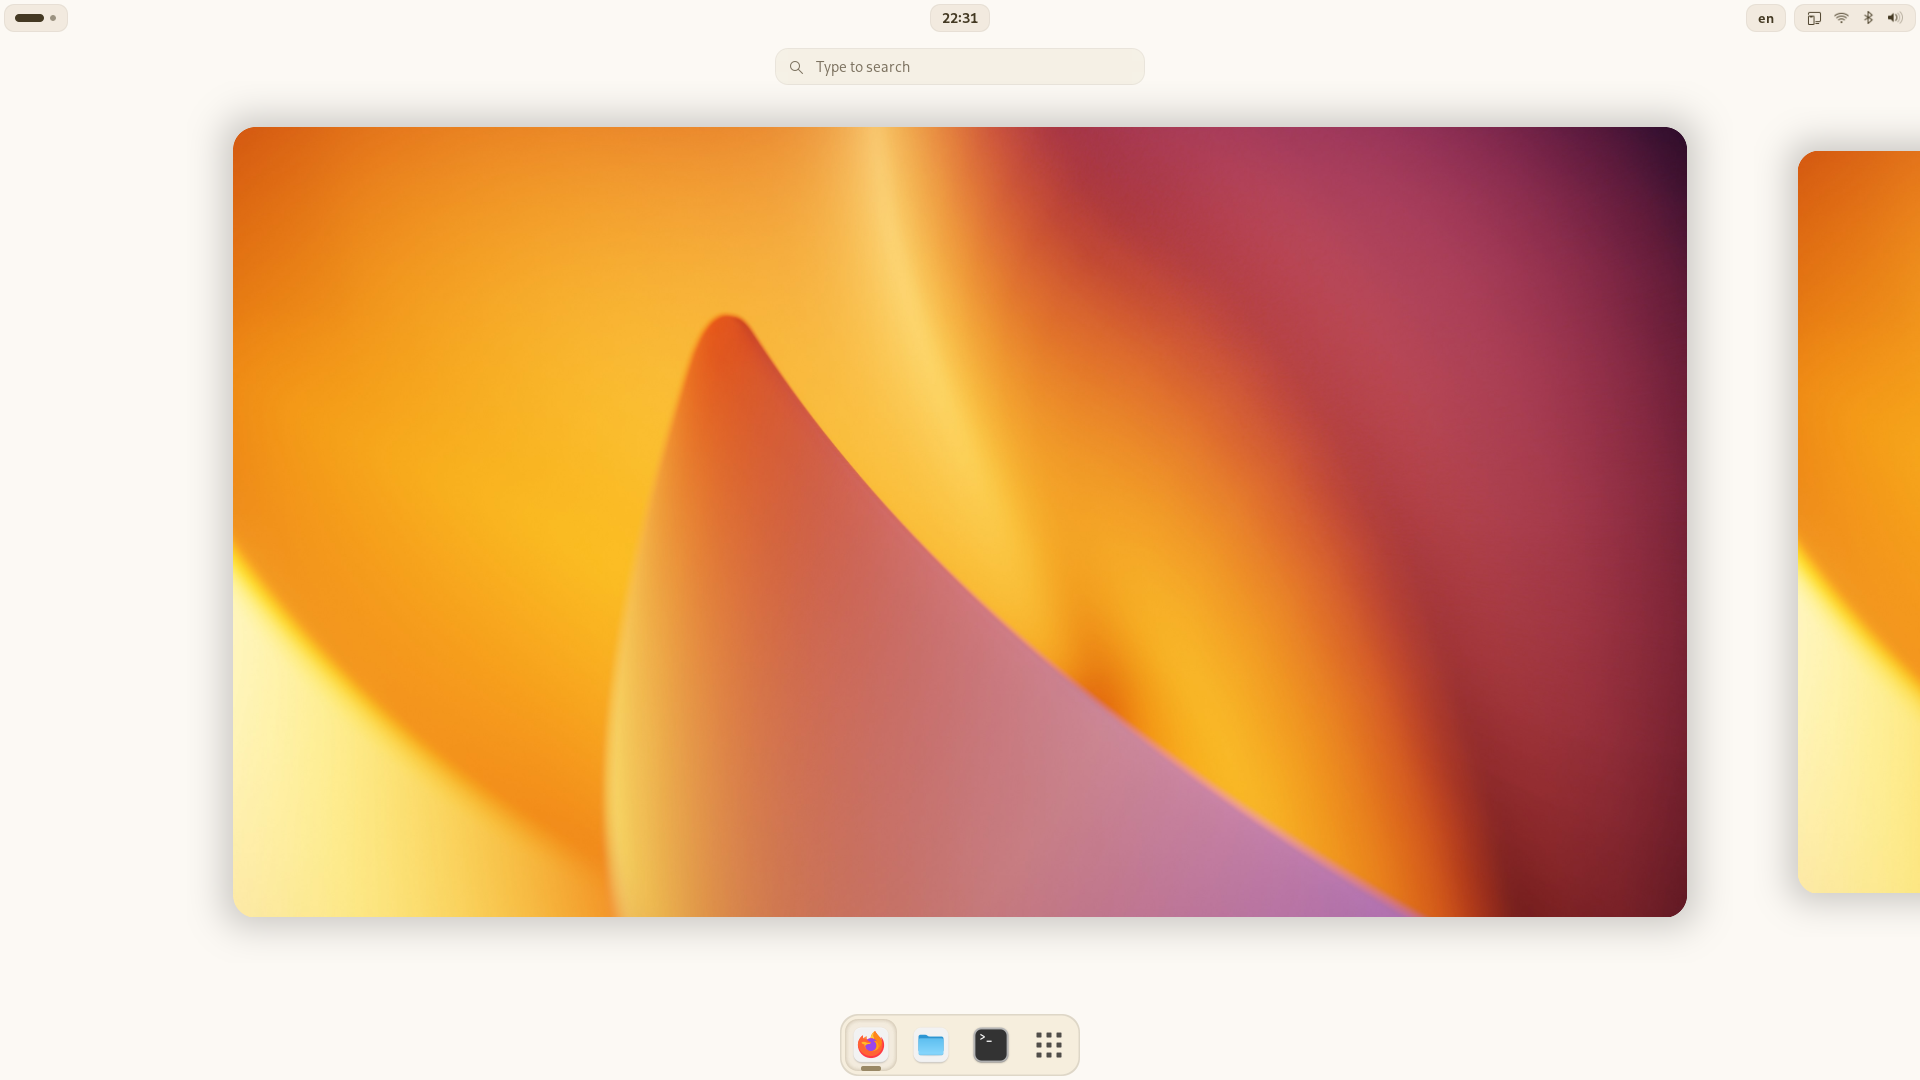
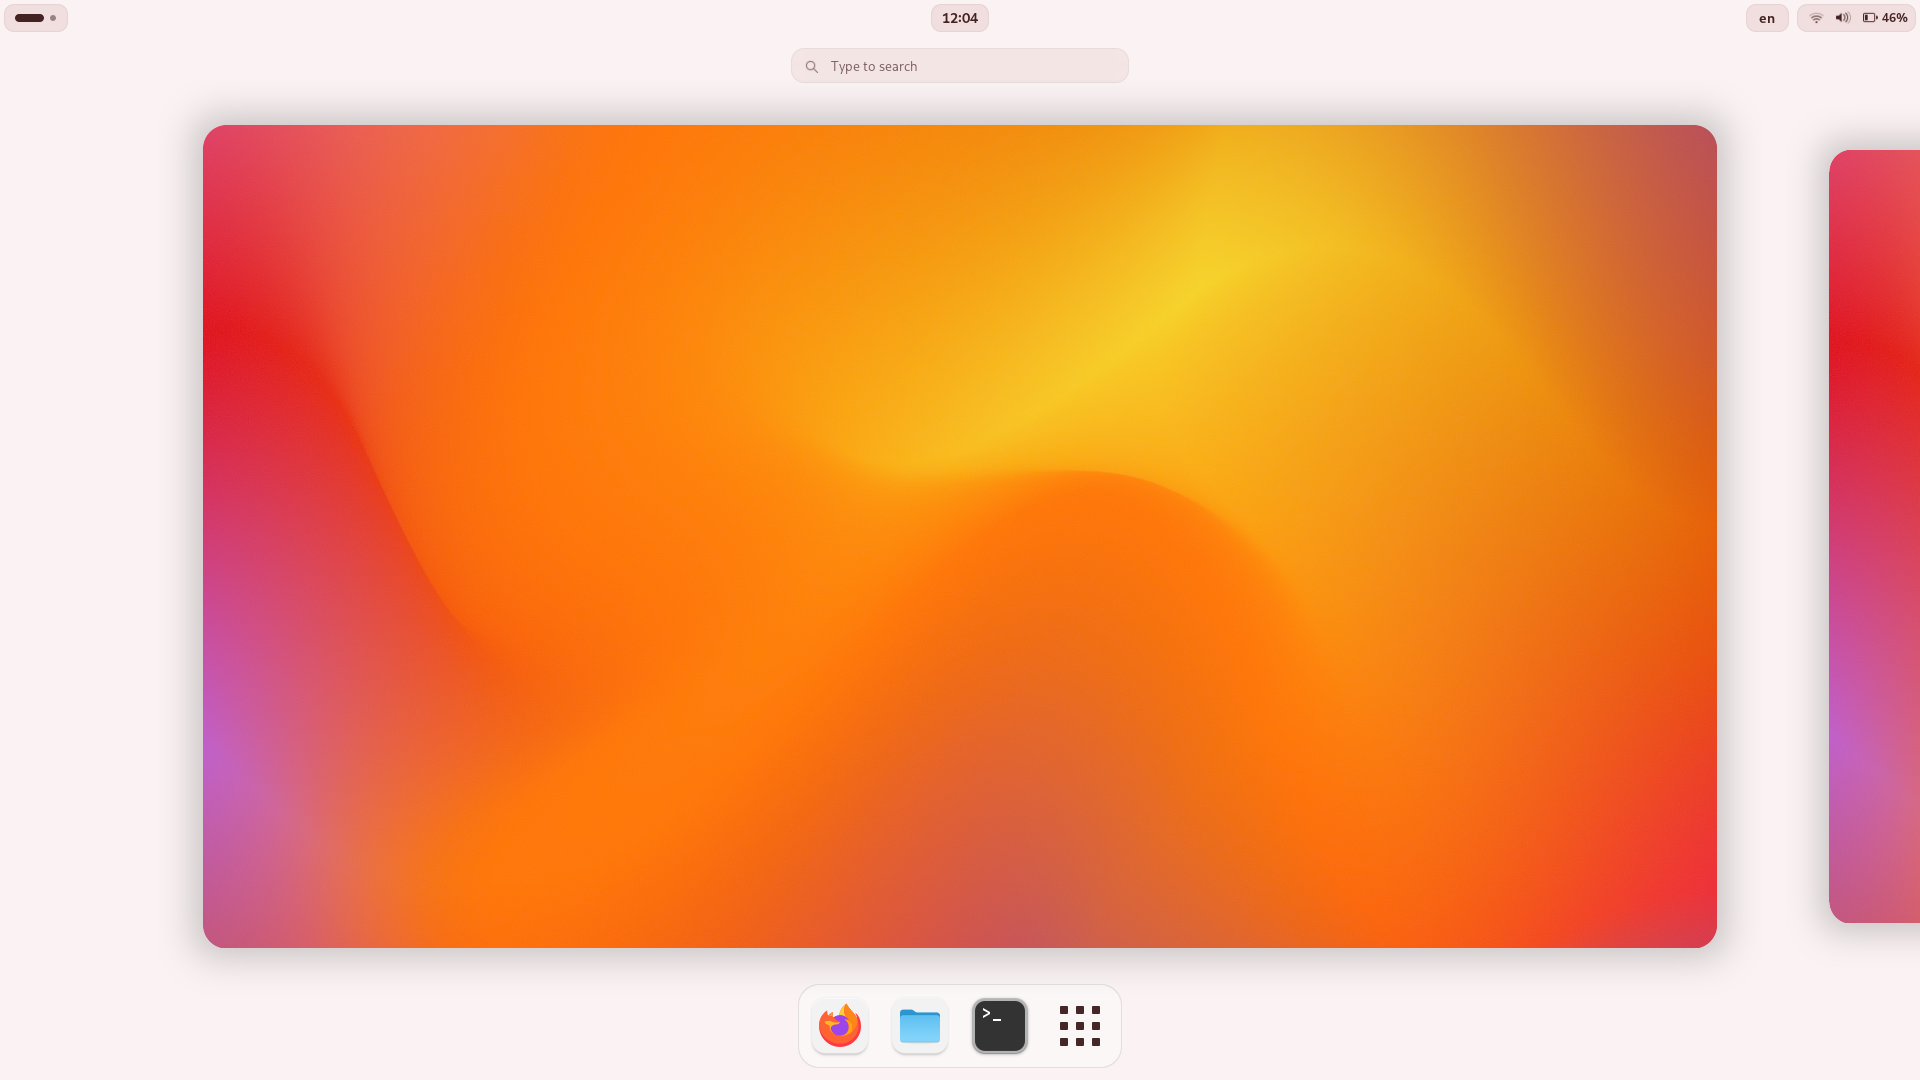
Update README.md

diff --git a/README.md b/README.md
@@ -15,7 +15,7 @@ Shell theme for GNOME DE. Based on https://www.pling.com/p/1939902/.
 <details><summary>Click me 🐈</summary>
 
 Icon theme: https://github.com/vinceliuice/Colloid-icon-theme
-#### Overview [[Blur My Shell](https://extensions.gnome.org/extension/3193/blur-my-shell/) / Light / Dark] (Fold [light](https://gitlab.gnome.org/GNOME/gnome-backgrounds/-/raw/gnome-45/backgrounds/fold-l.jpg?ref_type=heads) / [dark](https://gitlab.gnome.org/GNOME/gnome-backgrounds/-/raw/gnome-45/backgrounds/fold-d.jpg?ref_type=heads))
+#### Overview [[Blur My Shell](https://extensions.gnome.org/extension/3193/blur-my-shell/) / Light / Dark] ([Amber](https://gitlab.gnome.org/GNOME/gnome-backgrounds/-/tree/46.0/backgrounds?ref_type=tags))
 ![Overview with Blur My Shell](./readme-images/overview_blur-my-shell.png?raw=true "Overview with Blur My Shell")
 ![Overview in light mode](./readme-images/overview_light.png?raw=true "Overview in light mode")
 ![Overview in dark mode](./readme-images/overview_dark.png?raw=true "Overview in dark mode")
@@ -26,9 +26,9 @@ Icon theme: https://github.com/vinceliuice/Colloid-icon-theme
 ![Quick settings look](./readme-images/qs.png?raw=true "Quick settings look")
 
 #### Modal dialog ([Wide Angle Photography of Mountain](https://www.pexels.com/photo/wide-angle-photography-of-mountain-1612559/))
-![Modal dialog look](./readme-images/modal.png "Modal dialog look")
-#### Calendar & notifications ([Wallpaper](https://www.zedge.net/wallpaper/7e10d448-6440-405d-a847-30b6146eeb55))
-![Calendar & notifications look](./readme-images/notifications.png?raw=true)
+![Modal dialog look](./readme-images/modal.png?raw=true "Modal dialog look")
+#### Calendar & notifications ([Sand Dunes](https://4kwallpapers.com/nature/sand-dunes-desert-landscape-evening-windows-10x-microsoft-3287.html))
+![Calendar & notifications look](./readme-images/datemenu.jpg?raw=true)
 
 #### Dash ([Dash To Dock](https://extensions.gnome.org/extension/307/dash-to-dock/ "Dash To Dock"))
 - Position and size:
@@ -42,12 +42,15 @@ Icon theme: https://github.com/vinceliuice/Colloid-icon-theme
 </details>
 
 ## 🚧 Requirements
-- GNOME 43, 44, 45. Correct functionality on other versions is not guaranteed.
+- GNOME 43-46. Correct functionality on other versions is not guaranteed.
 - [User Themes](https://extensions.gnome.org/extension/19/user-themes/ "User Themes") extension.
-- [GNOME Tweaks](https://gitlab.gnome.org/GNOME/gnome-tweaks "GNOME Tweaks").
 - Python 3.2+.
 
 ## 💡 Installation
+
+> [!IMPORTANT]  
+> If you have another theme installed globally (changed the appearance of the login window (GDM)), please remove it before installing this theme.
+
 1. Open the terminal.
 2. Clone the git repository and change the directory:
    ```shell
@@ -62,13 +65,20 @@ Icon theme: https://github.com/vinceliuice/Colloid-icon-theme
       ```shell
       python install.py -a --filled
       ``` 
-4. After successful file creation open GNOME Tweaks, go to `Appearance - Themes - Shell`.
+4. After successful file creation open Extensions app, go to `User Themes - ··· - Settings`.
+![User Themes in Extensions](./readme-images/user-themes-settings.png)
 5. Select the shell theme you want.
 
 
 ## 🖥 GDM theme
 
 ![GDM theme](./readme-images/gdm.png?raw=true)
+
+> [!NOTE]  
+> This theme only supports GNOME Display Manager. Ubuntu Display Manager is currently not supported.
+
+> [!WARNING]  
+> I am not responsible for any damage caused by the installation of the theme. If you have any problems, please open an issue.
 
 1. Open the terminal.
 2. Go to the directory with the theme.
@@ -85,7 +95,7 @@ Icon theme: https://github.com/vinceliuice/Colloid-icon-theme
    sudo systemctl restart gdm
    ```
 
-- 🗑 If you want to remove the theme, run the program with the `--remove` option:
+- 🗑 If you want to remove the theme or theme is broken, run the program with the `--remove` option:
     ```shell
     sudo python install.py --gdm -r
     ```
